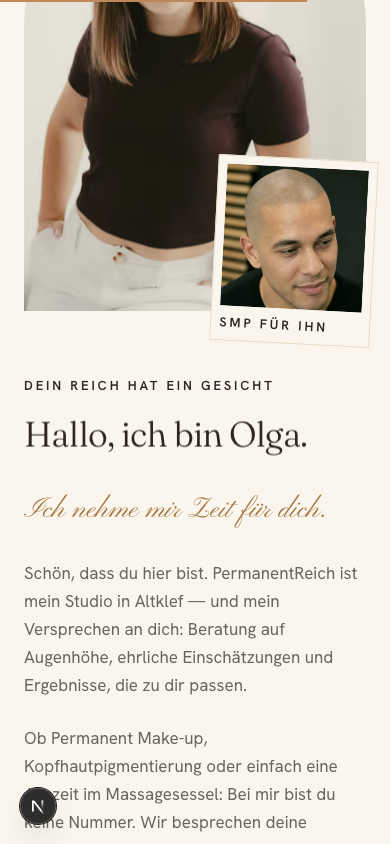
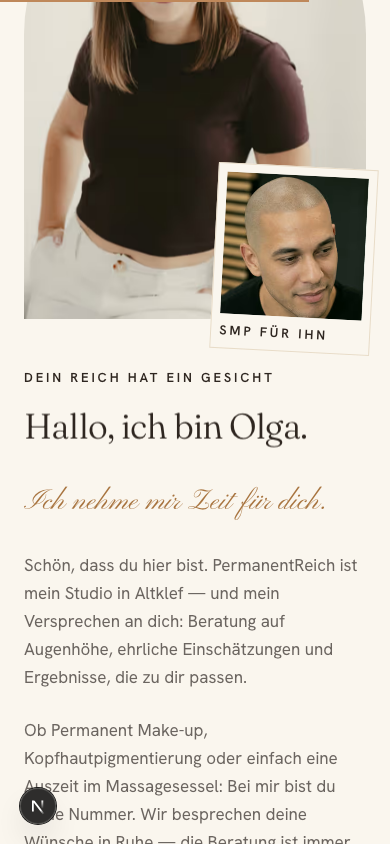
Nativer Mauszeiger statt Custom Cursor, Freiflächen auf der ganzen Seite gestrafft
Der goldene Ring mit Kontext-Labels ist raus. Entfernt sind die Komponente,
die `cursor: none`-Regel und alle 13 `data-cursor`-Attribute. Weil Browser für
<button> per UA-Default nur `cursor: default` liefern, setzt globals.css jetzt
explizit `pointer` für Buttons, [role="button"] und summary. Der
Vorher/Nachher-Slider bekommt `cursor: grab` / `grabbing` als native
Zieh-Einladung — das ersetzt das alte Label „Ziehen".

Abstände: der Sektions-Rhythmus lag bei 144 px oben und unten, also 288 px
Luft zwischen je zwei Sektionen. Jetzt 94 px (Mobile 56 statt 80). Dazu:

- Leistungs-Grid: Versatz-Offsets von 24/48 auf 12/24 halbiert, Zeilenabstand
  von gap-y-20 auf gap-y-14
- PMU: Beweisspalte mittig gegen die lange Detail-Liste statt oben verankert.
  Das Studio-Polaroid steht jetzt im Fluss darunter statt absolut am
  Spaltenboden — dort verdeckte es entweder das Nachher-Bild oder riss
  darunter ein Loch von knapp 500 px
- Ergebnis-Galerie: Karten- und Fußabstände deutlich enger
- Ablauf: Treppen-Versatz von 12/24 auf 6/12
- Wellness-Pin: Scrollstrecke 300vh -> 240vh, rund 47vh je Kapitel
- Stimmen-Marquee und Footer entsprechend nachgezogen

Seitenhöhe Desktop 15 890 -> 13 900 px (-12 %). Pin-Story, Slider,
reduced-motion und die mobilen Kachel-Videos verhalten sich unverändert.

diff --git a/components/sections/wellness-pin.tsx b/components/sections/wellness-pin.tsx
@@ -17,7 +17,6 @@ function WellnessCta({ className = '' }: { className?: string }) {
         href={kontakt.booking}
         target="_blank"
         rel="noopener noreferrer"
-        data-cursor="Buchen"
         className="inline-flex min-h-14 w-full items-center justify-center rounded-full bg-umber px-10 text-[1.0625rem] font-medium tracking-wide text-light transition-colors duration-500 hover:bg-gold-deep sm:w-auto"
       >
         {wellness.cta}
@@ -46,7 +45,7 @@ function Kapitel({ nr, titel, text }: { nr: string; titel: string; text: string 
 
 /**
  * Sektion #6 „Wellness" — SM-03 Pin-Story + SM-14 Kapitel-Zähler.
- * Desktop (lg, motion-safe): 300vh-Strecke, Sticky-Bühne, Kapitel per Scrub.
+ * Desktop (lg, motion-safe): 240vh-Strecke, Sticky-Bühne, Kapitel per Scrub.
  * Mobile / reduced-motion: gestapelte Sektion mit einfachem Fade-in.
  */
 export function WellnessPin() {
@@ -166,10 +165,10 @@ export function WellnessPin() {
 
   return (
     <section id="wellness" className="relative overflow-clip bg-champagne">
-      {/* ————— Desktop-Pin-Story (lg + motion-safe): 300vh Strecke, Sticky-Bühne ————— */}
-      <div ref={pinWrapRef} className="relative hidden h-[300vh] lg:motion-safe:block">
+      {/* ————— Desktop-Pin-Story (lg + motion-safe): 240vh Strecke, Sticky-Bühne ————— */}
+      <div ref={pinWrapRef} className="relative hidden h-[240vh] lg:motion-safe:block">
         <div className="sticky top-0 flex h-[100svh] items-center overflow-hidden">
-          {/* Gold-Dust-Partikel IN der Sticky-Bühne (nicht auf der 300vh-Strecke) */}
+          {/* Gold-Dust-Partikel IN der Sticky-Bühne (nicht auf der 240vh-Strecke) */}
           <LazyGoldParticles />
           {/* Sektionskopf oben absolut im Sticky-Bereich */}
           <div className="absolute inset-x-0 top-[clamp(2rem,6vh,4.5rem)]">
@@ -251,7 +250,7 @@ export function WellnessPin() {
 
       {/* ————— Mobile / reduced-motion: normale gestapelte Sektion ————— */}
       <div ref={stackedRef} className="relative lg:motion-safe:hidden">
-        <div className="mx-auto max-w-[1440px] px-6 py-[clamp(80px,10vw,160px)] md:px-10 lg:px-16">
+        <div className="mx-auto max-w-[1440px] px-6 py-[clamp(56px,6.5vw,104px)] md:px-10 lg:px-16">
           <SectionHeading
             eyebrow={wellness.eyebrow}
             script={wellness.script}
@@ -260,7 +259,7 @@ export function WellnessPin() {
 
           {/* Jedes Kapitel mit eigenem Raumfoto (Rundbogen + Parallax-Zoom-Reveal) —
               so sieht auch der mobile Rundgang alle drei Räume */}
-          <div className="mt-14 flex flex-col gap-[clamp(4rem,12vw,6rem)]">
+          <div className="mt-10 flex flex-col gap-[clamp(2.5rem,8vw,4rem)]">
             {wellness.kapitel.map((k, i) => (
               <div key={k.nr}>
                 <div
@@ -289,7 +288,7 @@ export function WellnessPin() {
             ))}
           </div>
 
-          <div data-wellness-fade className="mt-16 flex justify-center sm:justify-start">
+          <div data-wellness-fade className="mt-10 flex justify-center sm:justify-start">
             <WellnessCta className="w-full sm:w-auto" />
           </div>
         </div>

diff --git a/components/sections/pmu.tsx b/components/sections/pmu.tsx
@@ -37,16 +37,16 @@ export function Pmu() {
   }, []);
 
   return (
-    <section id="pmu" ref={root} className="bg-light py-[clamp(80px,10vw,160px)]">
+    <section id="pmu" ref={root} className="bg-light py-[clamp(56px,6.5vw,104px)]">
       <div className="mx-auto max-w-[1440px] px-6 md:px-10 lg:px-16">
-        <div className="grid gap-16 lg:grid-cols-12 lg:gap-10">
+        <div className="grid gap-12 lg:grid-cols-12 lg:items-center lg:gap-10">
           {/* Links — Text & Editorial-Liste */}
           <div className="lg:col-span-6">
             <SectionHeading eyebrow={pmu.eyebrow} script={pmu.script} headline={pmu.headline} />
 
             <p className="mt-8 max-w-[52ch] text-umber-soft">{pmu.text}</p>
 
-            <ul data-pmu-list className="mt-14 border-b border-champagne">
+            <ul data-pmu-list className="mt-10 border-b border-champagne">
               {pmu.details.map((detail) => (
                 <li key={detail.titel} data-pmu-item className="border-t border-champagne py-7">
                   <h3 className="font-display text-xl text-umber">{detail.titel}</h3>
@@ -59,7 +59,6 @@ export function Pmu() {
               href={kontakt.whatsapp}
               target="_blank"
               rel="noopener noreferrer"
-              data-cursor="Buchen"
               className="link-line mt-10 inline-flex min-h-14 items-center text-lg font-semibold text-gold-text"
             >
               {pmu.cta}
@@ -68,7 +67,7 @@ export function Pmu() {
 
           {/* Rechts — Beweis als Diptychon (die beiden Aufnahmen sind nicht
               deckungsgleich — nebeneinander ist der ehrliche Vergleich) */}
-          <div className="relative lg:col-span-5 lg:col-start-8 lg:mt-24">
+          <div className="relative lg:col-span-5 lg:col-start-8 lg:self-center">
             <div className="grid grid-cols-2 gap-1 overflow-hidden rounded-2xl">
               {(
                 [
@@ -103,9 +102,10 @@ export function Pmu() {
               {pmu.slider.hinweis}
             </p>
 
-            {/* Verspielt: Studio-Polaroid — dein Platz im Behandlungsraum
-                (unten rechts, damit das Vorher-Label frei bleibt) */}
-            <figure className="mx-auto mt-10 w-52 -rotate-2 border border-champagne bg-light p-2 transition-transform duration-500 ease-[var(--ease-out-soft)] hover:rotate-1 hover:scale-[1.03] lg:absolute lg:-bottom-24 lg:-right-8 lg:mx-0 lg:mt-0 lg:rotate-3 xl:-right-14">
+            {/* Verspielt: Studio-Polaroid — dein Platz im Behandlungsraum.
+                Steht im Fluss unter dem Beweis (nicht absolut), sonst verdeckt
+                es entweder das Nachher-Bild oder reißt darunter ein Loch. */}
+            <figure className="mx-auto mt-8 w-52 -rotate-2 border border-champagne bg-light p-2 transition-transform duration-500 ease-[var(--ease-out-soft)] hover:rotate-1 hover:scale-[1.03] lg:mr-0 lg:ml-auto lg:rotate-3">
               <div className="relative aspect-[4/3] overflow-hidden">
                 <Image
                   src={media.pmuStudio}

diff --git a/components/sections/ergebnisse.tsx b/components/sections/ergebnisse.tsx
@@ -41,7 +41,7 @@ export function Ergebnisse() {
   }, []);
 
   return (
-    <section id="ergebnisse" ref={root} className="bg-light py-[clamp(80px,10vw,160px)]">
+    <section id="ergebnisse" ref={root} className="bg-light py-[clamp(56px,6.5vw,104px)]">
       <div className="mx-auto max-w-[1440px] px-6 md:px-10 lg:px-16">
         <SectionHeading
           eyebrow={ergebnisse.eyebrow}
@@ -61,13 +61,13 @@ export function Ergebnisse() {
             Zeilenraster würde dazwischen Löcher reißen. */}
         <div
           data-ergebnis-grid
-          className="mt-16 columns-1 lg:mt-24 lg:columns-2 lg:gap-x-12"
+          className="mt-12 columns-1 lg:mt-16 lg:columns-2 lg:gap-x-12"
         >
           {ergebnisListe.map((eintrag) => (
             <article
               key={eintrag.id}
               data-ergebnis-item
-              className="mb-16 break-inside-avoid lg:mb-24"
+              className="mb-10 break-inside-avoid lg:mb-14"
             >
               <div className="overflow-hidden rounded-2xl">
                 {eintrag.modus === 'einzel' ? (
@@ -134,7 +134,7 @@ export function Ergebnisse() {
           ))}
         </div>
 
-        <div className="mt-[clamp(56px,7vw,96px)] max-w-[52ch] max-lg:mx-auto max-lg:text-center">
+        <div className="mt-[clamp(16px,2vw,32px)] max-w-[52ch] max-lg:mx-auto max-lg:text-center">
           <p className="text-sm leading-relaxed tracking-wide text-umber-soft">
             <span aria-hidden className="text-gold">
               ✦{' '}
@@ -146,7 +146,6 @@ export function Ergebnisse() {
             href={kontakt.whatsapp}
             target="_blank"
             rel="noopener noreferrer"
-            data-cursor="Buchen"
             className="link-line mt-6 inline-flex min-h-[56px] items-center gap-3 text-lg font-medium text-umber"
           >
             <span>{ergebnisse.cta}</span>

diff --git a/components/sections/services-grid.tsx b/components/sections/services-grid.tsx
@@ -24,13 +24,13 @@ const columns = [
   },
   {
     span: 'lg:col-span-4',
-    offset: 'lg:mt-24',
+    offset: 'lg:mt-12',
     parallax: 5,
     sizes: '(max-width: 1023px) 92vw, 30vw',
   },
   {
     span: 'lg:col-span-3',
-    offset: 'lg:mt-48',
+    offset: 'lg:mt-24',
     parallax: 14,
     sizes: '(max-width: 1023px) 92vw, 23vw',
   },
@@ -66,7 +66,7 @@ export function ServicesGrid() {
     <section
       id="leistungen"
       ref={sectionRef}
-      className="bg-ivory py-[clamp(80px,10vw,160px)]"
+      className="bg-ivory py-[clamp(56px,6.5vw,104px)]"
     >
       <div className="mx-auto max-w-[1440px] px-6 md:px-10 lg:px-16">
         <SectionHeading
@@ -78,7 +78,7 @@ export function ServicesGrid() {
           className="max-w-3xl"
         />
 
-        <div className="mt-16 grid grid-cols-1 gap-y-20 lg:mt-24 lg:grid-cols-12 lg:gap-x-10">
+        <div className="mt-12 grid grid-cols-1 gap-y-14 lg:mt-16 lg:grid-cols-12 lg:gap-x-10">
           {leistungen.items.map((item, i) => {
             const col = columns[i % columns.length];
             const tile = media.tiles[item.id];
@@ -90,7 +90,7 @@ export function ServicesGrid() {
                 className={`${col.span} ${col.offset} will-change-transform`}
               >
                 <Magnetic strength={0.06}>
-                  <a href={item.anchor} data-cursor="Entdecken" className="group block">
+                  <a href={item.anchor} className="group block">
                     {/* Verspielt: mittlere Kachel als Rundbogen, sanfter Hover-Tilt */}
                     <div
                       className={`transition-transform duration-700 ease-[var(--ease-out-soft)] ${

diff --git a/components/sections/booking-cta.tsx b/components/sections/booking-cta.tsx
@@ -15,7 +15,7 @@ import { media } from '@/lib/media';
  */
 export function BookingCta() {
   return (
-    <section id="termin" className="relative bg-champagne py-[clamp(80px,10vw,160px)]">
+    <section id="termin" className="relative bg-champagne py-[clamp(56px,6.5vw,104px)]">
       {/* Silk-Shader als lebendiger Sektions-Hintergrund — 0.65 lässt genug
           Champagne durchscheinen (Stil-Gesetz: Sektion bleibt Champagne) */}
       <LazySilk intensity={0.65} />
@@ -51,7 +51,6 @@ export function BookingCta() {
                 href={kontakt.booking}
                 target="_blank"
                 rel="noopener noreferrer"
-                data-cursor="Buchen"
                 className="flex h-16 w-full items-center justify-center gap-3 rounded-full bg-umber text-lg font-semibold text-light transition-colors duration-300 hover:bg-gold"
               >
                 <CalendarHeart aria-hidden className="h-5 w-5" />
@@ -64,7 +63,6 @@ export function BookingCta() {
                 href={kontakt.whatsapp}
                 target="_blank"
                 rel="noopener noreferrer"
-                data-cursor="Schreiben"
                 className="flex h-14 w-full items-center justify-center gap-3 rounded-full border border-umber text-umber transition-colors duration-300 hover:bg-umber hover:text-light"
               >
                 <MessageCircle aria-hidden className="h-5 w-5" />

diff --git a/components/sections/process-steps.tsx b/components/sections/process-steps.tsx
@@ -60,7 +60,7 @@ export function ProcessSteps() {
   }, []);
 
   return (
-    <section id="ablauf" ref={root} className="bg-ivory py-[clamp(80px,10vw,160px)]">
+    <section id="ablauf" ref={root} className="bg-ivory py-[clamp(56px,6.5vw,104px)]">
       <div className="mx-auto max-w-[1440px] px-6 md:px-10 lg:px-16">
         <SectionHeading
           eyebrow={ablauf.eyebrow}
@@ -71,13 +71,13 @@ export function ProcessSteps() {
 
         <ol
           data-steps-list
-          className="mt-16 border-l border-champagne pl-7 md:mt-24 md:grid md:grid-cols-3 md:gap-10 md:border-l-0 md:pl-0 lg:gap-14"
+          className="mt-12 border-l border-champagne pl-7 md:mt-16 md:grid md:grid-cols-3 md:gap-10 md:border-l-0 md:pl-0 lg:gap-14"
         >
           {ablauf.schritte.map((schritt) => (
             <li
               key={schritt.nr}
               data-step
-              className="border-champagne pb-12 last:pb-0 [&:not(:first-child)]:border-t [&:not(:first-child)]:pt-10 md:border-t md:pt-10 md:pb-0 md:nth-2:mt-12 md:nth-3:mt-24"
+              className="border-champagne pb-10 last:pb-0 [&:not(:first-child)]:border-t [&:not(:first-child)]:pt-10 md:border-t md:pt-10 md:pb-0 md:nth-2:mt-6 md:nth-3:mt-12"
             >
               <span
                 data-step-nr={Number(schritt.nr)}

diff --git a/components/sections/voices-marquee.tsx b/components/sections/voices-marquee.tsx
@@ -8,14 +8,14 @@ import { stimmen } from '@/content/copy.de';
  */
 export function VoicesMarquee() {
   return (
-    <section className="overflow-clip bg-light py-[clamp(60px,8vw,120px)]">
+    <section className="overflow-clip bg-light py-[clamp(40px,5vw,76px)]">
       {/* Eyebrow zentriert, einziger Container-Teil der Sektion */}
       <div className="mx-auto max-w-[1440px] px-6 text-center md:px-10 lg:px-16">
         <h2 className="eyebrow">{stimmen.eyebrow}</h2>
       </div>
 
       {/* Band 1: Kundinnen-Zitate */}
-      <Marquee duration={55} className="mt-[clamp(40px,5vw,72px)]">
+      <Marquee duration={55} className="mt-[clamp(28px,3.5vw,48px)]">
         {stimmen.zitate.map((zitat) => (
           <figure
             key={zitat.name}
@@ -37,7 +37,7 @@ export function VoicesMarquee() {
       {/* Band 2: Claim-Repetition — rein dekorativ, daher aria-hidden.
           Verspielt: Script und Display-Italic wechseln sich ab. */}
       <div aria-hidden>
-        <Marquee reverse duration={40} className="mt-12">
+        <Marquee reverse duration={40} className="mt-8">
           {stimmen.marquee.map((wort, i) => (
             <span key={wort} className="flex items-center">
               <span

diff --git a/app/layout.tsx b/app/layout.tsx
@@ -3,7 +3,6 @@ import { Fraunces, Pinyon_Script, Hanken_Grotesk } from "next/font/google";
 import "./globals.css";
 import { kontakt, meta } from "@/content/copy.de";
 import { SmoothScrollProvider } from "@/components/providers/smooth-scroll";
-import { CustomCursor } from "@/components/layout/custom-cursor";
 import { ScrollProgress } from "@/components/layout/scroll-progress";
 
 const fraunces = Fraunces({
@@ -71,7 +70,7 @@ export default function RootLayout({
       lang="de"
       className={`${fraunces.variable} ${pinyon.variable} ${hanken.variable} h-full antialiased`}
     >
-      <body className="has-custom-cursor min-h-full flex flex-col">
+      <body className="min-h-full flex flex-col">
         <script
           type="application/ld+json"
           dangerouslySetInnerHTML={{ __html: JSON.stringify(jsonLd) }}
@@ -79,7 +78,6 @@ export default function RootLayout({
         <SmoothScrollProvider>
           <ScrollProgress />
           {children}
-          <CustomCursor />
         </SmoothScrollProvider>
       </body>
     </html>

diff --git a/components/sections/smp.tsx b/components/sections/smp.tsx
@@ -59,12 +59,12 @@ export function Smp() {
   const aktiv = inhalte[modus];
 
   return (
-    <section id="smp" className="bg-ivory py-[clamp(80px,10vw,160px)]">
+    <section id="smp" className="bg-ivory py-[clamp(56px,6.5vw,104px)]">
       <div className="mx-auto max-w-[1440px] px-6 md:px-10 lg:px-16">
         <SectionHeading
           eyebrow={smp.eyebrow}
           headline={smp.headline}
-          className="mb-[clamp(48px,6vw,96px)] max-w-5xl"
+          className="mb-[clamp(32px,4vw,56px)] max-w-5xl"
         />
 
         <div className="grid grid-cols-1 gap-y-12 lg:grid-cols-12 lg:items-center lg:gap-x-10">
@@ -104,7 +104,6 @@ export function Smp() {
               href={kontakt.whatsapp}
               target="_blank"
               rel="noopener noreferrer"
-              data-cursor="Buchen"
               className="link-line mt-10 inline-flex min-h-[56px] items-center gap-3 text-lg font-medium text-umber"
             >
               <span>{smp.cta}</span>

diff --git a/components/sections/hook-statement.tsx b/components/sections/hook-statement.tsx
@@ -73,7 +73,7 @@ export function HookStatement() {
     <section
       ref={sectionRef}
       id="reich"
-      className="relative overflow-hidden bg-light py-[clamp(80px,10vw,160px)]"
+      className="relative overflow-hidden bg-light py-[clamp(56px,6.5vw,104px)]"
     >
       {/* Dekorative Papiertextur */}
       <Image
@@ -106,13 +106,13 @@ export function HookStatement() {
 
         <p
           data-hook-sub
-          className="mx-auto mt-10 max-w-lg text-lg leading-relaxed text-umber-soft md:mt-14"
+          className="mx-auto mt-8 max-w-lg text-lg leading-relaxed text-umber-soft md:mt-10"
         >
           {hook.sub}
         </p>
 
         {/* Verspielt: Gold-Swash zeichnet sich als Abschluss */}
-        <div data-hook-ornament className="mt-10 flex justify-center">
+        <div data-hook-ornament className="mt-8 flex justify-center">
           <Flourish className="h-8 w-56" />
         </div>
       </div>

diff --git a/components/layout/footer.tsx b/components/layout/footer.tsx
@@ -52,7 +52,7 @@ export function Footer() {
         </p>
 
         {/* Kontakt-Grid */}
-        <div className="mt-[clamp(48px,6vw,96px)] grid grid-cols-1 gap-12 border-t border-light/10 pt-[clamp(40px,5vw,72px)] md:grid-cols-3 md:gap-10">
+        <div className="mt-[clamp(32px,4vw,60px)] grid grid-cols-1 gap-12 border-t border-light/10 pt-[clamp(28px,3.5vw,52px)] md:grid-cols-3 md:gap-10">
           <address className="not-italic">
             {/* Original-Wortmarke (CI) — Grau/Gold funktioniert auch auf Umber */}
             <Image
@@ -80,7 +80,6 @@ export function Footer() {
               href={kontakt.booking}
               target="_blank"
               rel="noopener noreferrer"
-              data-cursor="Buchen"
               className="link-line font-display inline-flex min-h-11 items-center text-[clamp(1.375rem,2vw,1.75rem)] text-gold"
             >
               {cta.bookingLabel}

diff --git a/components/sections/hero.tsx b/components/sections/hero.tsx
@@ -71,7 +71,6 @@ function HeroInhalt() {
             href={kontakt.whatsapp}
             target="_blank"
             rel="noopener noreferrer"
-            data-cursor="Buchen"
             className="inline-flex h-14 items-center rounded-full bg-umber px-10 text-light transition-colors duration-300 hover:bg-gold"
           >
             {hero.cta}
@@ -83,7 +82,6 @@ function HeroInhalt() {
           href={kontakt.booking}
           target="_blank"
           rel="noopener noreferrer"
-          data-cursor="Buchen"
           className="link-line inline-flex min-h-11 items-center gap-2 font-semibold text-umber"
         >
           <span aria-hidden className="text-gold">✦</span>
